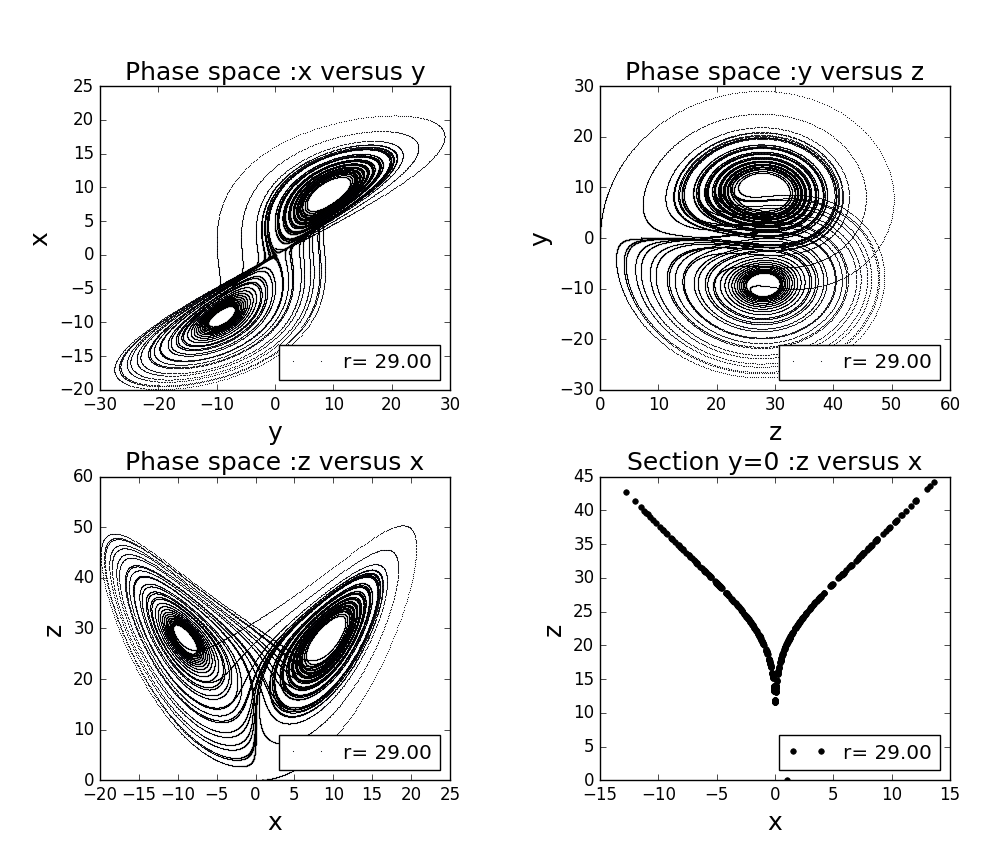
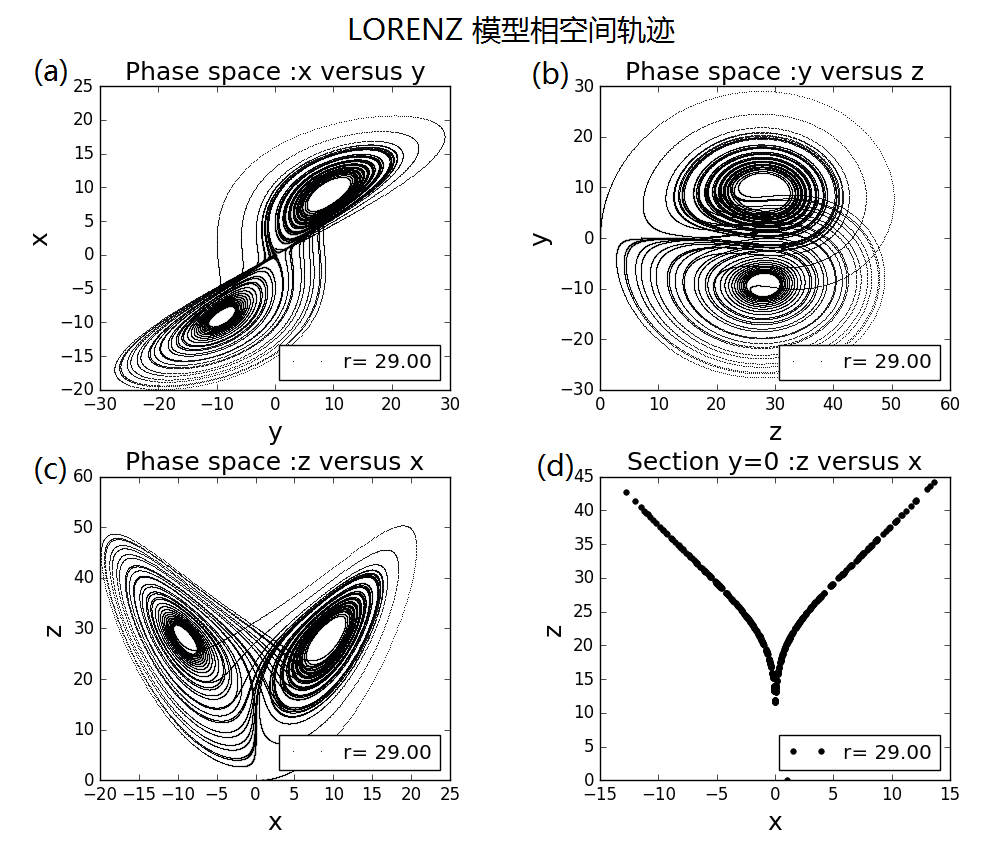
refine ch3

diff --git a/chapter3_201605_33/Lorenz/ch3_lorenz_phase.py b/chapter3_201605_33/Lorenz/ch3_lorenz_phase.py
@@ -1,10 +1,17 @@
 '''
 PROGRAM lorenz_phase
+Author: Chen Yangyao     Last Modify:20160502
+this program solves the Lorenz model and give trajectory and phase-space plot
 ''' 
 
 from numpy import * 
 import matplotlib.pyplot as plt
 
+#class:LORENZ solves for Lorenz model 
+#where:   
+#       r : driving    dt: time step 
+#       time :total time 
+#       sigma, b : other parameter    
 class LORENZ(object):
     def __init__(self,_r=25,_dt=0.001,_time=50,_sigma=10,_b=10/3):
         self.t = [0]
@@ -12,32 +19,32 @@ class LORENZ(object):
         self.r, self.sigma, self.b = _r, _sigma, _b
         self.dt, self.time, self.n = _dt, _time, int(_time/_dt)
         print 'Lorenz init, dt=%.3f, time=%.3f, r=%.3f '%(self.dt,self.time,self.r)
-    def cal(self):
+    def cal(self):           # use Euler method solves Lorenz Equations numerically
         for i in range(self.n):
             self.t.append(self.t[-1]+self.dt)           
             self.x.append(self.x[-1]+self.sigma*(self.y[-1]-self.x[-1])*self.dt)
             self.y.append(self.y[-1]+(-self.x[-2]*self.z[-1]+self.r*self.x[-2]-self.y[-1])*self.dt)
             self.z.append(self.z[-1]+(self.x[-2]*self.y[-2]-self.b*self.z[-1])*self.dt)
         print 'Lorenz cal',1
-    def plot_z(self,_ax):
+    def plot_z(self,_ax):           # plot trajectory z vs time
         _ax.plot(self.t,self.z,'-r',label='r= %.2f'%self.r)
         print 'z_t plot',1
-    def plot_x(self,_ax):
+    def plot_x(self,_ax):           # plot trajectory x vs time
         _ax.plot(self.t,self.x,'-r',label='r= %.2f'%self.r)
         print 'x_t plot',1
-    def plot_y(self,_ax):
+    def plot_y(self,_ax):           # plot trajectory y vs time
         _ax.plot(self.t,self.y,'-r',label='r= %.2f'%self.r)
         print 'y_t plot',1
-    def plot_phase_zx(self,_ax):
+    def plot_phase_zx(self,_ax):           # plot phase-space z vs x
         _ax.plot(self.x,self.z,'ob',markersize=0.3,label='r= %.2f'%self.r)
         print 'zx phase plot',1
-    def plot_phase_xy(self,_ax):
+    def plot_phase_xy(self,_ax):           # plot phase-space x vs y
         _ax.plot(self.y,self.x,'ob',markersize=0.3,label='r= %.2f'%self.r)
         print 'xy phase plot',1
-    def plot_phase_yz(self,_ax):
+    def plot_phase_yz(self,_ax):           # plot phase-space y vs z
         _ax.plot(self.z,self.y,'ob',markersize=0.3,label='r= %.2f'%self.r)
         print 'yz phase plot',1
-    def plot_section_zx(self,_ax,_secy=0.):
+    def plot_section_zx(self,_ax,_secy=0.):           # plot phase-space z vs x at y=0 section
         self.z_sec, self.x_sec = [], []
         self.secy = _secy
         for i in range(len(self.t)):
@@ -76,6 +83,7 @@ ax2.set_ylabel('z ',fontsize=18)
 plt.show(fig)
 '''
 
+# plot phase space and section
 fig= plt.figure(figsize=(10,10))
 ax1=plt.axes([0.1,0.55,0.35,0.35])
 ax2=plt.axes([0.6,0.55,0.35,0.35])

diff --git a/chapter3_201605_33/Lorenz/ch3_lorenz_phase3d.py b/chapter3_201605_33/Lorenz/ch3_lorenz_phase3d.py
@@ -1,6 +1,16 @@
+'''
+PROGRAM lorenz_phase3d
+Author: Chen Yangyao     Last Modify:20160502
+this program solves the Lorenz model and output data
+''' 
 from numpy import * 
 import matplotlib.pyplot as plt
 
+#class:LORENZ solves for Lorenz model 
+#where:   
+#       r : driving    dt: time step 
+#       time :total time 
+#       sigma, b : other parameter 
 class LORENZ(object):
     def __init__(self,_r=25,_dt=0.001,_time=50,_sigma=10,_b=10/3):
         self.t = [0]
@@ -8,32 +18,32 @@ class LORENZ(object):
         self.r, self.sigma, self.b = _r, _sigma, _b
         self.dt, self.time, self.n = _dt, _time, int(_time/_dt)
         print 'Lorenz init, dt=%.3f, time=%.3f, r=%.3f '%(self.dt,self.time,self.r)
-    def cal(self):
+    def cal(self):           # use Euler method solves Lorenz Equations numerically
         for i in range(self.n):
             self.t.append(self.t[-1]+self.dt)           
             self.x.append(self.x[-1]+self.sigma*(self.y[-1]-self.x[-1])*self.dt)
             self.y.append(self.y[-1]+(-self.x[-2]*self.z[-1]+self.r*self.x[-2]-self.y[-1])*self.dt)
             self.z.append(self.z[-1]+(self.x[-2]*self.y[-2]-self.b*self.z[-1])*self.dt)
         print 'Lorenz cal',1
-    def plot_z(self,_ax):
+    def plot_z(self,_ax):          # plot trajectory z vs time
         _ax.plot(self.t,self.z,'-r',label='r= %.2f'%self.r)
         print 'z_t plot',1
-    def plot_x(self,_ax):
+    def plot_x(self,_ax):          # plot trajectory x vs time
         _ax.plot(self.t,self.x,'-r',label='r= %.2f'%self.r)
         print 'x_t plot',1
-    def plot_y(self,_ax):
+    def plot_y(self,_ax):          # plot trajectory y vs time
         _ax.plot(self.t,self.y,'-r',label='r= %.2f'%self.r)
         print 'y_t plot',1
-    def plot_phase_zx(self,_ax):
+    def plot_phase_zx(self,_ax):           # plot phase-space z vs x
         _ax.plot(self.x,self.z,'ob',markersize=0.3,label='r= %.2f'%self.r)
         print 'zx phase plot',1
-    def plot_phase_xy(self,_ax):
+    def plot_phase_xy(self,_ax):           # plot phase-space x vs y
         _ax.plot(self.y,self.x,'ob',markersize=0.3,label='r= %.2f'%self.r)
         print 'xy phase plot',1
-    def plot_phase_yz(self,_ax):
+    def plot_phase_yz(self,_ax):           # plot phase-space y vs z
         _ax.plot(self.z,self.y,'ob',markersize=0.3,label='r= %.2f'%self.r)
         print 'yz phase plot',1
-    def plot_section_zx(self,_ax,_secy=0.):
+    def plot_section_zx(self,_ax,_secy=0.):           # plot phase-space z vs x at y=0 section
         self.z_sec, self.x_sec = [], []
         self.secy = _secy
         for i in range(len(self.t)):
@@ -47,6 +57,8 @@ class LORENZ(object):
         else:
             print 'sec_y overranging'
             return 0
+
+# compute and output data
 cmp=LORENZ(29,0.001,50)
 cmp.cal()
 myfile=file(r'd:\data.txt','w')

diff --git a/chapter3_201605_33/Billiard/ch3_billiard_trajectory.py b/chapter3_201605_33/Billiard/ch3_billiard_trajectory.py
@@ -1,12 +1,21 @@
+'''
+PROGRAM billiard_trajectory
+Author: Chen Yangyao     Last Modify:20160502
+this program solves the billiard motion
+''' 
 from numpy import * 
 import matplotlib.pyplot as plt
 
-# for a stadium-shaped boundary
+# class: BILLIARD solves for a stadium-shaped boundary
+# where:
+#        x0, y0, vx0, vy0: initial position of billiard 
+#        dt, time : time step and total time
+#        alpha: the length cube region 
 class BILLIARD(object):
     def __init__(self,_alpha=0.,_r=1.,_x0=0.2,_y0=0.,_vx0=0.6,_vy0=0.8,_dt=0.001,_time=300):
         self.alpha, self.r, self.dt, self.time, self.n = _alpha, _r, _dt, _time, int(_time/_dt)
         self.x, self.y, self.vx, self.vy = [_x0], [_y0], [_vx0], [_vy0]
-    def cal(self):
+    def cal(self):            # use Euler method to solve billiard motion
         for i in range(self.n):
             self.nextx = self.x[-1]+self.vx[-1]*self.dt
             self.nexty = self.y[-1]+self.vy[-1]*self.dt
@@ -44,13 +53,13 @@ class BILLIARD(object):
             self.y.append(self.nexty)
             self.vx.append(self.nextvx)
             self.vy.append(self.nextvy)
-    def plot_position(self,_ax):
+    def plot_position(self,_ax):        # give trajectory plot
         _ax.plot(self.x,self.y,'-b',label=r'$\alpha=$'+'  %.2f'%self.alpha)
         _ax.plot([self.r]*10,linspace(-self.alpha*self.r,self.alpha*self.r,10),'-k',lw=5)
         _ax.plot([-self.r]*10,linspace(-self.alpha*self.r,self.alpha*self.r,10),'-k',lw=5)
         _ax.plot(self.r*cos(linspace(0,pi,100)),self.r*sin(linspace(0,pi,100))+self.alpha*self.r,'-k',lw=5)
         _ax.plot(self.r*cos(linspace(pi,2*pi,100)),self.r*sin(linspace(pi,2*pi,100))-self.alpha*self.r,'-k',lw=5)
-    def plot_phase(self,_ax,_secy=0):
+    def plot_phase(self,_ax,_secy=0):        # give phase-space plot
         self.secy=_secy
         self.phase_x, self.phase_vx = [], []
         for i in range(len(self.x)):
@@ -58,7 +67,9 @@ class BILLIARD(object):
                 self.phase_x.append(self.x[i])
                 self.phase_vx.append(self.vx[i])
         _ax.plot(self.phase_x,self.phase_vx,'ob',markersize=2,label=r'$\alpha=$'+'  %.2f'%self.alpha)
-        
+
+
+# give a trajectory and phase space plot          
 fig= plt.figure(figsize=(10,10))
 ax1=plt.axes([0.1,0.55,0.35,0.35])
 ax2=plt.axes([0.6,0.55,0.35,0.35])

diff --git a/chapter3_201605_33/Billiard/ch3_rigidball.py b/chapter3_201605_33/Billiard/ch3_rigidball.py
@@ -1,6 +1,16 @@
+'''
+PROGRAM rigidball
+Author: Chen Yangyao     Last Modify:20160502
+this program solves the rigid model for molecules
+''' 
 from numpy import * 
 import matplotlib.pyplot as plt
 
+# class RIGID : solves for tje rigid model of molecules
+# where:  
+#         number : number of molecule in a line 
+#         radii : radii of molecule 
+#         v0,sigma : initial velocity and its distribution variance
 class RIGID(object):
     def __init__(self,_number=15,_radii=0.02,_v0=0.3,_sigma=0.1):
         self.n=_number**2
@@ -18,7 +28,7 @@ class RIGID(object):
             for j in linspace(-0.3,0.3,_number):
                 self.x[0]=hstack((self.x[0],i))
                 self.y[0]=hstack((self.y[0],j))
-    def cal(self,_dt=0.1,_time=100):
+    def cal(self,_dt=0.1,_time=100):         # Use Euler method to solve the rigid model 
         self.dt=_dt
         self.time=_time
         for k in range(int(self.time/self.dt)):
@@ -52,14 +62,14 @@ class RIGID(object):
                 if abs(self.nexty[i])>(0.5-self.r):
                     self.nexty[i]=self.nexty[i]-sign(self.nexty[i])*(1-self.r*2)
             self.gama=sqrt(self.nextvx**2+self.nextvy**2)
-            self.gama=abs(self.gama-(3*1E-4))/self.gama
+            self.gama=abs(self.gama-(3*1E-4))/self.gama        # to lower the temperature
             self.nextvx=self.nextvx*self.gama
             self.nextvy=self.nextvy*self.gama
             self.x.append(self.nextx)
             self.y.append(self.nexty)
             self.vx.append(self.nextvx)
             self.vy.append(self.nextvy)
-    def plot(self,_ax,_i):
+    def plot(self,_ax,_i):         # plot the ith picture
         _ax.plot(self.x[_i],self.y[_i],'ob',markersize=4,label='last second')
 
 cmp=RIGID()
@@ -73,6 +83,7 @@ for i in range(5):
     ax1.set_ylim(-0.7,0.7)
     plt.savefig("C:\\Users\\ChenYangyao\\Desktop\\pic_ch3_lorenz\\rigid\\i_%d .png"%i)
 '''
+# compute and output data
 myfile=file(r'd:\datax.txt','w')
 for i in range(len(cmp.x)):
     for j in range(cmp.n):

diff --git a/chapter3_201605_33/Billiard/ch3_Billiard_elliptical.py b/chapter3_201605_33/Billiard/ch3_Billiard_elliptical.py
@@ -1,12 +1,21 @@
+'''
+PROGRAM Billiard_elliptical
+Author: Chen Yangyao     Last Modify:20160502
+this program solves the billiard motion
+''' 
+
 from numpy import * 
 import matplotlib.pyplot as plt
 
-# for a elliptical-bounded boundary
+# class: BILLIARD solves for a elliptical-bounded boundary
+# where:
+#        x0, y0, vx0, vy0: initial position of billiard 
+#        dt, time : time step and total time
 class BILLIARD(object):
     def __init__(self,_x0=sqrt(2),_y0=0.,_vx0=0,_vy0=1,_dt=0.001,_time=500):
         self.dt, self.time, self.n = _dt, _time, int(_time/_dt)
         self.x, self.y, self.vx, self.vy = [_x0], [_y0], [_vx0], [_vy0]
-    def cal(self):
+    def cal(self):            # use Euler method to solve billiard motion
         for i in range(self.n):
             self.nextx = self.x[-1]+self.vx[-1]*self.dt
             self.nexty = self.y[-1]+self.vy[-1]*self.dt
@@ -28,10 +37,10 @@ class BILLIARD(object):
             self.y.append(self.nexty)
             self.vx.append(self.nextvx)
             self.vy.append(self.nextvy)
-    def plot_position(self,_ax):
+    def plot_position(self,_ax):        # give trajectory plot
         _ax.plot(self.x,self.y,'-b',label='Ellipse'+r'$a=2,b=1$')
         _ax.plot(sqrt(3)*cos(linspace(0,2*pi,200)),sin(linspace(0,2*pi,200)),'-k',lw=5)
-    def plot_phase(self,_ax,_secy=0):
+    def plot_phase(self,_ax,_secy=0):        # give phase-space plot
         self.secy=_secy
         self.phase_x, self.phase_vx = [], []
         for i in range(len(self.x)):
@@ -39,7 +48,8 @@ class BILLIARD(object):
                 self.phase_x.append(self.x[i])
                 self.phase_vx.append(self.vx[i])
         _ax.plot(self.phase_x,self.phase_vx,'ob',markersize=2,label='Ellipse'+r'$a=2,b=1$')
-        
+
+# give a trajectory and phase space plot        
 fig= plt.figure(figsize=(10,4))
 ax1=plt.axes([0.1,0.15,0.35,0.7])
 ax2=plt.axes([0.6,0.15,0.35,0.7])

diff --git a/chapter3_201605_33/Billiard/ch3_elliptical3d.py b/chapter3_201605_33/Billiard/ch3_elliptical3d.py
@@ -1,3 +1,8 @@
+'''
+PROGRAM Billiard_elliptical 3d
+Author: Chen Yangyao     Last Modify:20160502
+this program solves the billiard motion and output data
+''' 
 from numpy import * 
 import matplotlib.pyplot as plt
 

diff --git a/README.md b/README.md
@@ -7,7 +7,8 @@
 [第6次作业(chapter2,抛体运动)](https://www.zybuluo.com/cyy652415049/note/333582)  
 [第7次作业(chapter2,棒球运动)](https://www.zybuluo.com/cyy652415049/note/338769)  
 [第8次作业(chapter3,简谐摆和非简谐摆)](https://www.zybuluo.com/cyy652415049/note/347388)  
-[第9次作业(chapter3,混沌摆)](https://www.zybuluo.com/cyy652415049/note/355836)
+[第9次作业(chapter3,混沌摆)](https://www.zybuluo.com/cyy652415049/note/355836)  
+[第10次作业(chapter3,Lorenz模型和台球运动)](https://www.zybuluo.com/cyy652415049/note/358905)
 
 ## 第一次作业(20160303)
 * 安装Linux系统  
